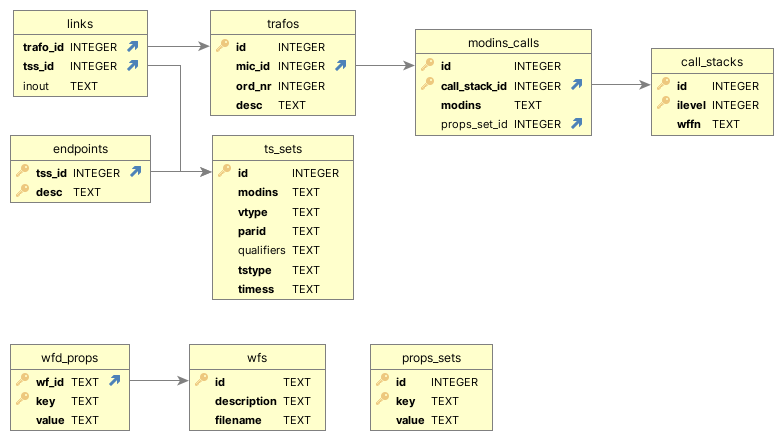
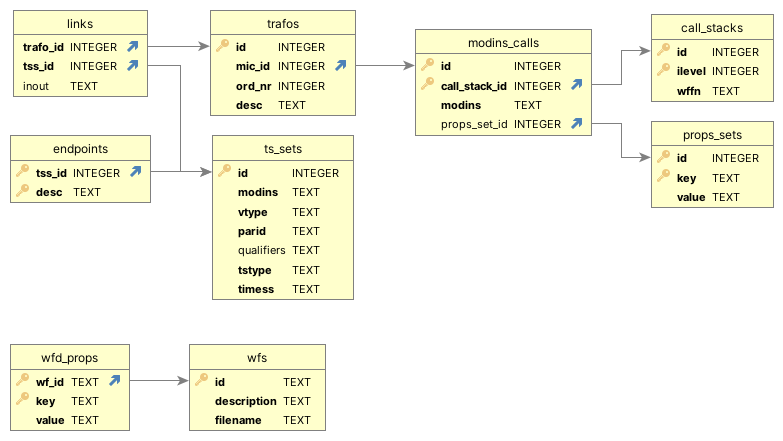
correctie

Changed region(s): [[0.7969, 0.0295, 1.0, 0.4717], [0.4598, 0.7664, 0.6437, 1.0]]

diff --git a/python/DbConfigVis.py b/python/DbConfigVis.py
@@ -54,7 +54,7 @@ class DbConfigVis:
                 modins TEXT NOT NULL,
                 props_set_id INTEGER,
                 CONSTRAINT PK_modins_calls PRIMARY KEY (id, call_stack_id),
-                FOREIGN KEY(props_set_id) REFERENCES props_set(id),
+                FOREIGN KEY(props_set_id) REFERENCES props_sets(id),
                 FOREIGN KEY(call_stack_id) REFERENCES call_stacks(id))"""
         cursor.execute(dll_modins_calls_table)
         logger.info("modins_calls table created")
